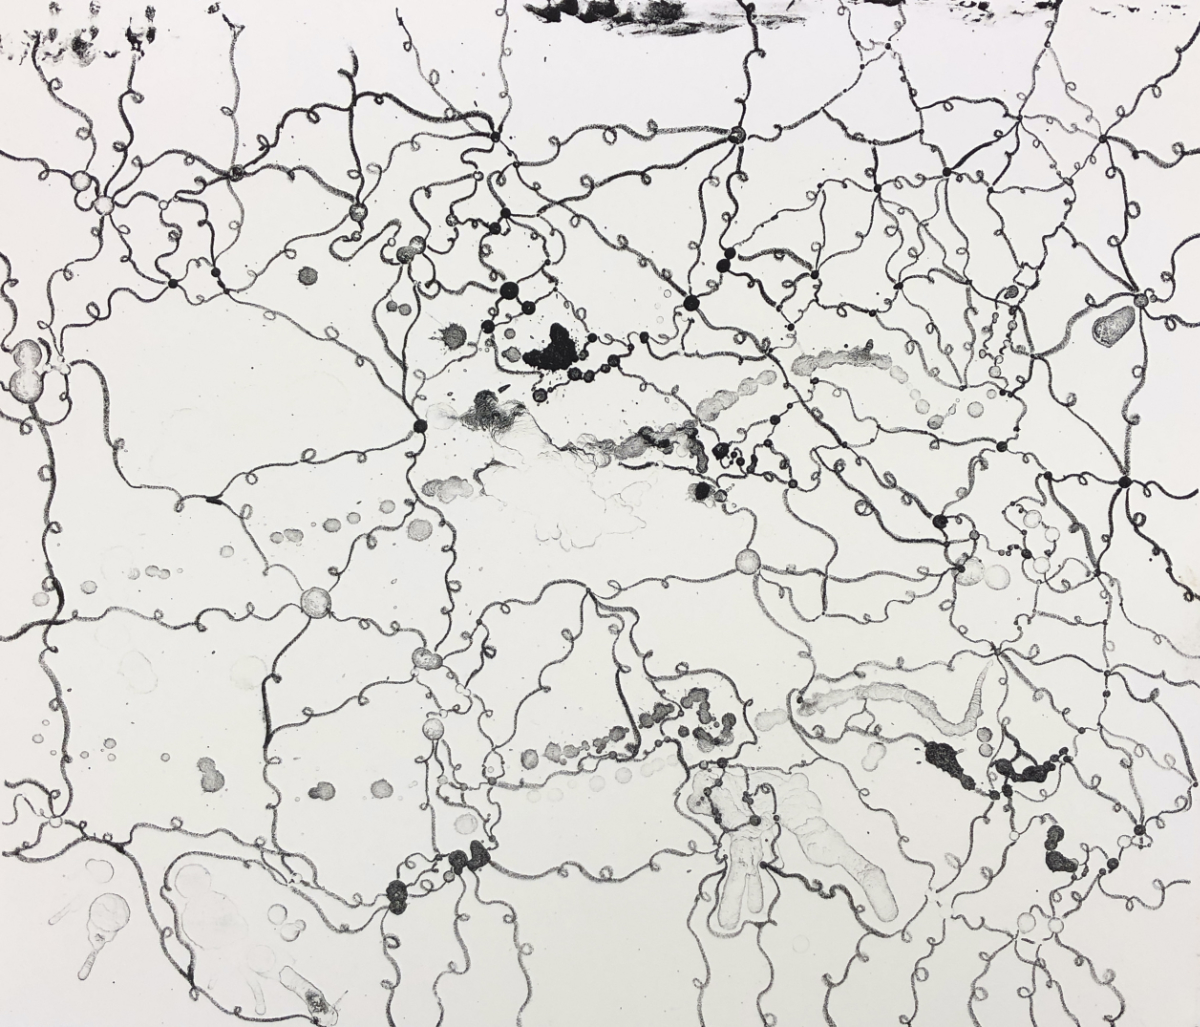
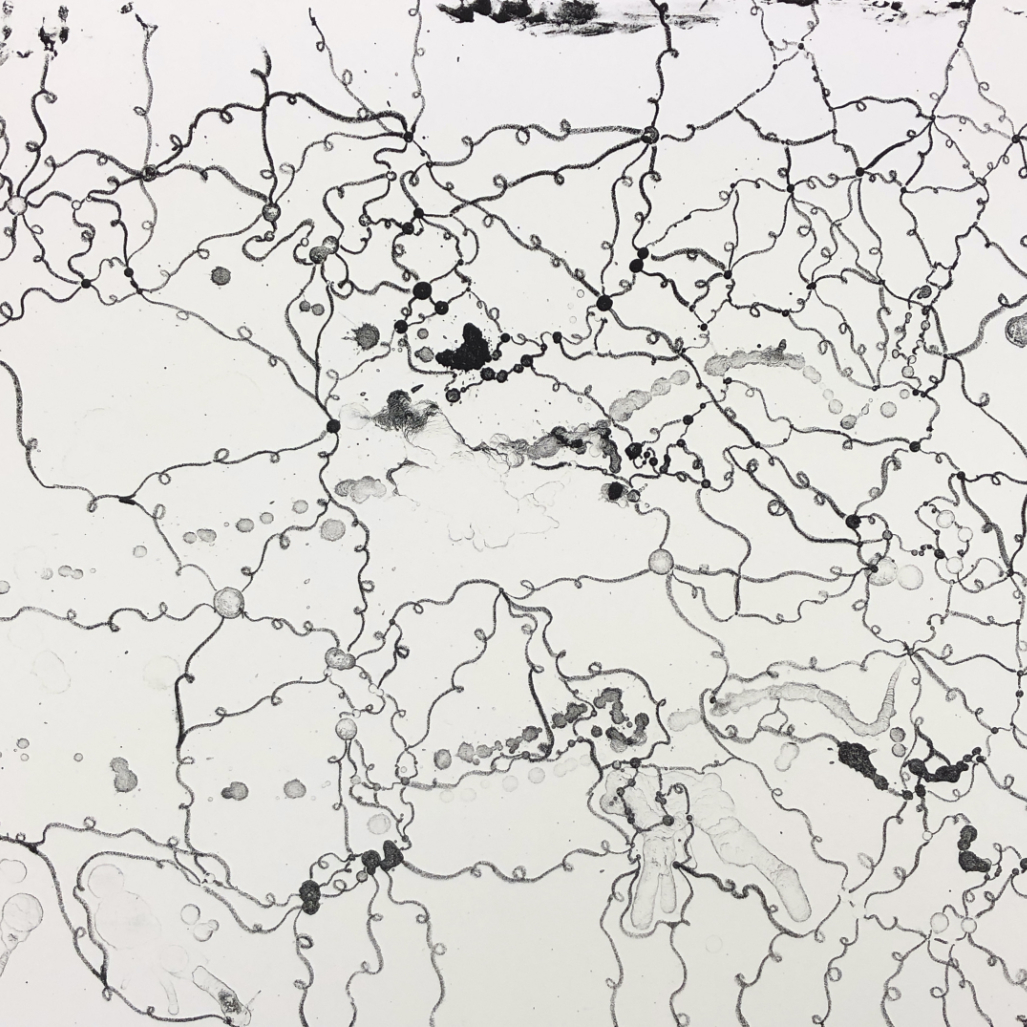
Recropped images

Changed region(s): [[0.0, 0.0, 1.0, 1.0], [0.0, 0.9036, 0.0312, 0.9348]]

diff --git a/index.html b/index.html
@@ -63,10 +63,12 @@
       </div>
     </div>
 
-    <h2>Call for Entry</h2>
-    <p>By being conscious of lost opportunities for artists due to COVID-19, we are establishing a new free online-only gallery, Good Art Makes You Feel Things Gallery. In our first call, we are asking for submissions that are inspired by our name. So what art have you made that makes you feel things? All works must be finished and able to be presented in an online format. The exhibition will be juried by our head curator, Mangeront L. Riches with assistance from our board of directors as submissions come in. This call is ongoing and we will be accepting submissions for one month stays in our online gallery as the featured Good Art works.</p>
-    <h4>Instructions for Submission:</h4>
-    <p>You may submit one work per month for consideration. Additional submissions will be ignored. Please submit 1-3 image files (1200px in the longest direction .jpeg) or YouTube link (for time based work) to <a href="mailto: goodartmakesyoufeelthings@gmail.com">goodartmakesyoufeelthings@gmail.com</a>.</p>
+    <div class="callForEntry">
+      <h2>Call for Entry</h2>
+      <p>By being conscious of lost opportunities for artists due to COVID-19, we are establishing a new free online-only gallery, Good Art Makes You Feel Things Gallery. In our first call, we are asking for submissions that are inspired by our name. So what art have you made that makes you feel things? All works must be finished and able to be presented in an online format. The exhibition will be juried by our head curator, Mangeront L. Riches with assistance from our board of directors as submissions come in. This call is ongoing and we will be accepting submissions for one month stays in our online gallery as the featured Good Art works.</p>
+      <h4>Instructions for Submission:</h4>
+      <p>You may submit one work per month for consideration. Additional submissions will be ignored. Please submit 1-3 image files (1200px in the longest direction .jpeg) or YouTube link (for time based work) to <a href="mailto: goodartmakesyoufeelthings@gmail.com">goodartmakesyoufeelthings@gmail.com</a>.</p>
+    </div>
 
   </div>
     <footer>

diff --git a/styles/main.css b/styles/main.css
@@ -57,6 +57,11 @@ footer{
   margin: 2% auto 0 auto;
 }
 
+.callForEntry{
+  width: 90%;
+  margin: auto;
+}
+
 a:link {
   text-decoration: none;
   color: inherit;
